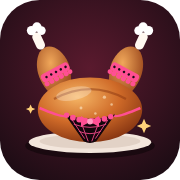
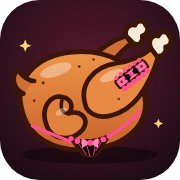
Nuevo icono: pollo asado estilo dibujo animado con lencería
Claude-Session: https://claude.ai/code/session_01AkSX8JK3Me7MFrqBoU8TFH

diff --git a/index.html b/index.html
@@ -4,8 +4,8 @@
 <meta name="claude:viewport-fit-sides" content="cover">
 <meta name="apple-mobile-web-app-capable" content="yes">
 <meta name="apple-mobile-web-app-title" content="Pollo a la brasa">
[1 lines of base64/hex data omitted]
-<link rel="apple-touch-icon" href="apple-touch-icon.png">
[1 lines of base64/hex data omitted]
+<link rel="apple-touch-icon" href="apple-touch-icon.png?v=2">
 <link rel="manifest" href="manifest.json">
 <meta name="theme-color" content="#1c0c14">
 <link rel="preconnect" href="https://fonts.googleapis.com">
@@ -265,35 +265,37 @@ label.lab{font-weight:700;font-size:14.5px;display:block;margin-bottom:6px}
   <header class="top">
     <button class="brand" data-go="home" aria-label="Pollo a la brasa, inicio"><svg viewBox="0 0 100 100" aria-hidden="true">
 <defs>
-<radialGradient id="bg" cx="50%" cy="38%" r="72%"><stop offset="0" stop-color="#5a1a2e"/><stop offset="1" stop-color="#1c0c14"/></radialGradient>
-<radialGradient id="sk" cx="38%" cy="30%" r="80%"><stop offset="0" stop-color="#f6b766"/><stop offset=".5" stop-color="#cf6a28"/><stop offset="1" stop-color="#7a2c0e"/></radialGradient>
-<radialGradient id="leg" cx="40%" cy="30%" r="80%"><stop offset="0" stop-color="#f0a75a"/><stop offset="1" stop-color="#8a3510"/></radialGradient>
+<radialGradient id="pbg" cx="50%" cy="38%" r="72%"><stop offset="0" stop-color="#5a1a2e"/><stop offset="1" stop-color="#1c0c14"/></radialGradient>
+<linearGradient id="psk" x1="0" y1="0" x2="0" y2="1"><stop offset="0" stop-color="#ee9548"/><stop offset="1" stop-color="#c8612a"/></linearGradient>
 </defs>
-<rect width="100" height="100" rx="22" fill="url(#bg)"/>
-<ellipse cx="50" cy="81" rx="36" ry="7" fill="#12070c" opacity=".7"/>
-<ellipse cx="50" cy="79" rx="34" ry="6" fill="#f3e6dc"/>
-<ellipse cx="50" cy="78.5" rx="28" ry="4" fill="#e2d2c6"/>
-<path d="M33 56 C22 49 18 37 22 29 C26 23 34 26 38 35 C40 41 40 49 38 55 Z" fill="url(#leg)"/>
-<path d="M67 56 C78 49 82 37 78 29 C74 23 66 26 62 35 C60 41 60 49 62 55 Z" fill="url(#leg)"/>
-<g fill="#fff8f0"><rect x="19" y="18" width="5" height="10" rx="2.5" transform="rotate(-25 21 23)"/><rect x="76" y="18" width="5" height="10" rx="2.5" transform="rotate(25 79 23)"/></g>
-<g fill="#fff"><circle cx="17.5" cy="17" r="2.6"/><circle cx="20.5" cy="15" r="2.6"/><circle cx="23" cy="17" r="2.4"/><circle cx="82.5" cy="17" r="2.6"/><circle cx="79.5" cy="15" r="2.6"/><circle cx="77" cy="17" r="2.4"/></g>
-<g transform="rotate(-28 30 40)"><rect x="22" y="38" width="17" height="5" rx="2" fill="#ff4f93"/><g fill="#ff4f93">
-<circle cx="23.5" cy="44" r="1.4"/><circle cx="26.5" cy="44" r="1.4"/><circle cx="29.5" cy="44" r="1.4"/><circle cx="32.5" cy="44" r="1.4"/><circle cx="35.5" cy="44" r="1.4"/><circle cx="38" cy="44" r="1.3"/></g>
-<g fill="#1c0c14"><circle cx="25" cy="40.5" r=".7"/><circle cx="28" cy="40.5" r=".7"/><circle cx="31" cy="40.5" r=".7"/><circle cx="34" cy="40.5" r=".7"/><circle cx="37" cy="40.5" r=".7"/></g></g>
-<g transform="rotate(28 70 40)"><rect x="61" y="38" width="17" height="5" rx="2" fill="#ff4f93"/><g fill="#ff4f93">
-<circle cx="62" cy="44" r="1.3"/><circle cx="64.5" cy="44" r="1.4"/><circle cx="67.5" cy="44" r="1.4"/><circle cx="70.5" cy="44" r="1.4"/><circle cx="73.5" cy="44" r="1.4"/><circle cx="76.5" cy="44" r="1.4"/></g>
-<g fill="#1c0c14"><circle cx="63" cy="40.5" r=".7"/><circle cx="66" cy="40.5" r=".7"/><circle cx="69" cy="40.5" r=".7"/><circle cx="72" cy="40.5" r=".7"/><circle cx="75" cy="40.5" r=".7"/></g></g>
-<ellipse cx="50" cy="61" rx="29" ry="18" fill="url(#sk)"/>
-<path d="M30 55 Q50 44 70 55" stroke="#8a3510" stroke-width="1.2" fill="none" opacity=".5"/>
-<ellipse cx="41" cy="52" rx="10" ry="3.6" fill="#fff" opacity=".28" transform="rotate(-12 41 52)"/>
-<g fill="#fff3d6" opacity=".55"><circle cx="58" cy="54" r=".9"/><circle cx="62" cy="58" r=".7"/><circle cx="45" cy="60" r=".8"/><circle cx="53" cy="63" r=".7"/></g>
-<path d="M22 60 Q36 66 37 64" stroke="#ff4f93" stroke-width="1.6" fill="none"/>
-<path d="M78 60 Q64 66 63 64" stroke="#ff4f93" stroke-width="1.6" fill="none"/>
-<path d="M36 63.5 Q50 68.5 64 63.5 L53.5 78.5 Q50 80.5 46.5 78.5 Z" fill="#14060c"/>
-<g fill="none" stroke="#ff4f93" stroke-width=".55" opacity=".85"><path d="M40 66.5 L47 77 M45 67.8 L49 78.5 M55 67.8 L51 78.5 M60 66.5 L53 77"/><path d="M41 69 Q50 72.5 59 69"/><path d="M44 73 Q50 75.5 56 73"/></g>
-<g fill="#ff4f93"><circle cx="37" cy="64" r="1.5"/><circle cx="40.5" cy="65.4" r="1.6"/><circle cx="44" cy="66.4" r="1.6"/><circle cx="47.5" cy="67" r="1.6"/><circle cx="51" cy="67.1" r="1.6"/><circle cx="54.5" cy="66.8" r="1.6"/><circle cx="58" cy="66" r="1.6"/><circle cx="61.5" cy="64.9" r="1.5"/></g>
-<g transform="translate(50 67.5)"><path d="M0 0 L-5 -3 L-5 3 Z" fill="#ff4f93"/><path d="M0 0 L5 -3 L5 3 Z" fill="#ff4f93"/><circle r="1.6" fill="#ff9cc2"/></g>
-<g fill="#ffd27a"><path d="M80 66 l1.2 2.8 2.8 1.2 -2.8 1.2 -1.2 2.8 -1.2 -2.8 -2.8 -1.2 2.8 -1.2z"/><path d="M17 58 l.8 1.8 1.8 .8 -1.8 .8 -.8 1.8 -.8 -1.8 -1.8 -.8 1.8 -.8z"/></g>
+<rect width="100" height="100" rx="22" fill="url(#pbg)"/>
+<ellipse cx="50" cy="86" rx="38" ry="5" fill="#000" opacity=".35"/>
+<g stroke="#3b1608" stroke-width="2.6" stroke-linejoin="round" stroke-linecap="round">
+<path d="M50 34 C55 27 63 22 70 20 L73 24 C68 28 62 34 59 40 Z" fill="#d06f33"/>
+<path d="M70 20 C69 16 72 13 75 14 C76 11 80 11 81 14 C83 16 82 19 79 20 C80 23 77 26 74 24 Z" fill="#f6ead8"/>
+<path d="M12 60 C8 44 20 31 40 29 C60 27 76 36 80 52 C84 68 71 81 50 83 C30 85 15 76 12 60 Z" fill="url(#psk)"/>
+<path d="M13 52 C7 49 6 42 10 39 C13 43 16 45 19 45" fill="#d06f33"/>
+<path d="M26 70 C22 60 28 52 35 54 C40 55 41 60 38 63 C45 61 50 66 46 72 C40 79 29 78 26 70 Z" fill="#e0823d"/>
+<path d="M35 54 C33 59 34 63 38 63" fill="none" stroke-width="2"/>
+<path d="M48 60 C43 47 52 37 65 35 C73 34 79 31 84 27 L88 31 C86 38 83 46 77 54 C69 64 54 69 48 60 Z" fill="#e88a43"/>
+<path d="M84 27 C82 23 84 19 88 20 C89 17 93 17 94 20 C96 22 95 26 92 26 C93 29 90 32 87 31 Z" fill="#f6ead8"/>
+</g>
+<g fill="#fff" opacity=".35"><ellipse cx="31" cy="39" rx="9" ry="3.4" transform="rotate(-18 31 39)"/><ellipse cx="62" cy="42" rx="7" ry="2.6" transform="rotate(-25 62 42)"/><ellipse cx="34" cy="62" rx="3.5" ry="1.6" transform="rotate(-30 34 62)"/></g>
+<g fill="#7a2d0e"><circle cx="24" cy="46" r=".9"/><circle cx="44" cy="37" r=".8"/><circle cx="52" cy="33" r=".7"/><circle cx="70" cy="47" r=".8"/><circle cx="66" cy="55" r=".7"/><circle cx="19" cy="56" r=".8"/></g>
+<g transform="rotate(-38 73 41)">
+<rect x="63" y="38.5" width="20" height="5.5" rx="1.5" fill="#ff6fa6" stroke="#3b1608" stroke-width="1.2"/>
+<g fill="#ff4f93"><circle cx="65" cy="45" r="1.5"/><circle cx="68.2" cy="45.3" r="1.5"/><circle cx="71.4" cy="45.4" r="1.5"/><circle cx="74.6" cy="45.4" r="1.5"/><circle cx="77.8" cy="45.3" r="1.5"/><circle cx="81" cy="45" r="1.5"/>
+<circle cx="65" cy="37.6" r="1.2"/><circle cx="68.2" cy="37.4" r="1.2"/><circle cx="71.4" cy="37.3" r="1.2"/><circle cx="74.6" cy="37.3" r="1.2"/><circle cx="77.8" cy="37.4" r="1.2"/><circle cx="81" cy="37.6" r="1.2"/></g>
+<g fill="#14060c" opacity=".55"><circle cx="66" cy="41.2" r=".8"/><circle cx="69" cy="41.2" r=".8"/><circle cx="77" cy="41.2" r=".8"/><circle cx="80" cy="41.2" r=".8"/></g>
+<g transform="translate(73 41.2)"><path d="M0 0 L-4 -2.8 L-4 2.8 Z M0 0 L4 -2.8 L4 2.8 Z" fill="#14060c"/><circle r="1.3" fill="#ff4f93"/></g>
+</g>
+<path d="M18 70 Q30 75 40 79" fill="none" stroke="#ff4f93" stroke-width="1.8" stroke-linecap="round"/>
+<path d="M78 62 Q70 70 60 76" fill="none" stroke="#ff4f93" stroke-width="1.8" stroke-linecap="round"/>
+<path d="M39 77 Q50 80 61 75 L54 86 Q50 88 46 86 Z" fill="#14060c" stroke="#3b1608" stroke-width="1.4" stroke-linejoin="round"/>
+<g fill="none" stroke="#ff4f93" stroke-width=".55" opacity=".85"><path d="M43 79 L48 86 M48 80 L50 87 M53 80 L52 86 M57 78 L53 84"/></g>
+<g fill="#ff4f93"><circle cx="39.5" cy="77" r="1.5"/><circle cx="43" cy="78.4" r="1.6"/><circle cx="46.6" cy="79.2" r="1.6"/><circle cx="50.2" cy="79.3" r="1.6"/><circle cx="53.8" cy="78.7" r="1.6"/><circle cx="57.4" cy="77.4" r="1.6"/><circle cx="60.6" cy="75.6" r="1.5"/></g>
+<g transform="translate(50 79.5)"><path d="M0 0 L-4.5 -2.8 L-4.5 2.8 Z M0 0 L4.5 -2.8 L4.5 2.8 Z" fill="#ff86b5"/><circle r="1.5" fill="#ff4f93"/></g>
+<g fill="#ffd27a"><path d="M14 22 l1 2.4 2.4 1 -2.4 1 -1 2.4 -1 -2.4 -2.4 -1 2.4 -1z"/><path d="M88 66 l.8 1.8 1.8 .8 -1.8 .8 -.8 1.8 -.8 -1.8 -1.8 -.8 1.8 -.8z"/></g>
 </svg><span>Pollo <i>a la</i> brasa</span></button>
     <div class="top-r">
       <button class="icon-btn" data-go="ajustes" aria-label="Ajustes"><svg viewBox="0 0 24 24" fill="none" stroke="currentColor" stroke-width="1.9" stroke-linecap="round"><circle cx="12" cy="12" r="3"/><path d="M19.4 15a1.7 1.7 0 0 0 .3 1.8l.1.1a2 2 0 1 1-2.8 2.8l-.1-.1a1.7 1.7 0 0 0-1.8-.3 1.7 1.7 0 0 0-1 1.5V21a2 2 0 1 1-4 0v-.1a1.7 1.7 0 0 0-1.1-1.5 1.7 1.7 0 0 0-1.8.3l-.1.1a2 2 0 1 1-2.8-2.8l.1-.1a1.7 1.7 0 0 0 .3-1.8 1.7 1.7 0 0 0-1.5-1H3a2 2 0 1 1 0-4h.1a1.7 1.7 0 0 0 1.5-1.1 1.7 1.7 0 0 0-.3-1.8l-.1-.1a2 2 0 1 1 2.8-2.8l.1.1a1.7 1.7 0 0 0 1.8.3H9a1.7 1.7 0 0 0 1-1.5V3a2 2 0 1 1 4 0v.1a1.7 1.7 0 0 0 1 1.5 1.7 1.7 0 0 0 1.8-.3l.1-.1a2 2 0 1 1 2.8 2.8l-.1.1a1.7 1.7 0 0 0-.3 1.8V9a1.7 1.7 0 0 0 1.5 1H21a2 2 0 1 1 0 4h-.1a1.7 1.7 0 0 0-1.5 1z"/></svg></button>
